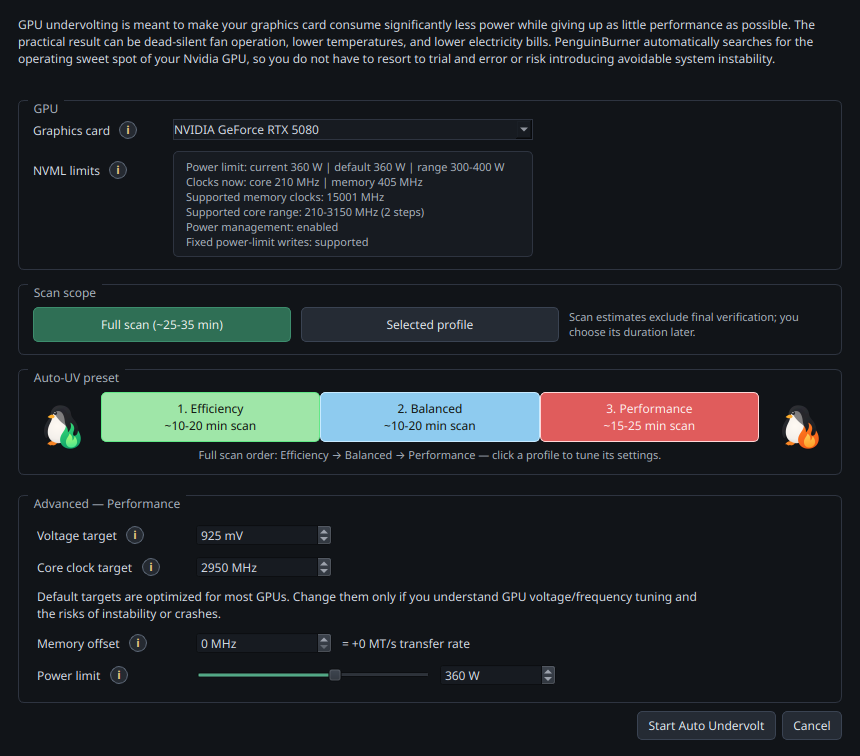
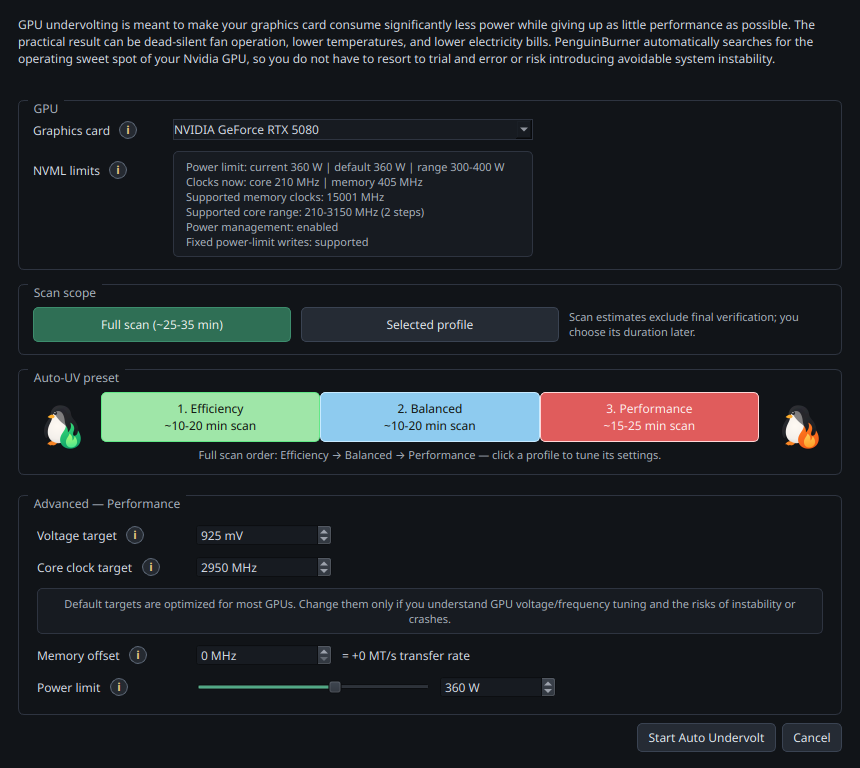
Center Auto-UV target caution in a compact info box

diff --git a/ui/dialogs/scan_tuning.py b/ui/dialogs/scan_tuning.py
@@ -340,7 +340,9 @@ def select_scan_tuning(
         )
         target_caution.setObjectName("autoUvTargetCaution")
         target_caution.setWordWrap(True)
-        target_caution.setMaximumWidth(680)
+        target_caution.setAlignment(
+            qt_flags(QtCore.Qt, "AlignmentFlag", "AlignCenter")
+        )
         form.addRow(target_caution)
 
         memory_spin = QtWidgets.QSpinBox()

diff --git a/ui/styles.py b/ui/styles.py
@@ -42,7 +42,7 @@ QLabel#aboutSavings {{
     font-weight: 700;
     line-height: 1.4;
 }}
-QLabel#gpuNvmlInfo {{
+QLabel#gpuNvmlInfo, QLabel#autoUvTargetCaution {{
     background: {theme.SURFACE_BG};
     border: 1px solid {theme.BORDER};
     border-radius: 5px;
